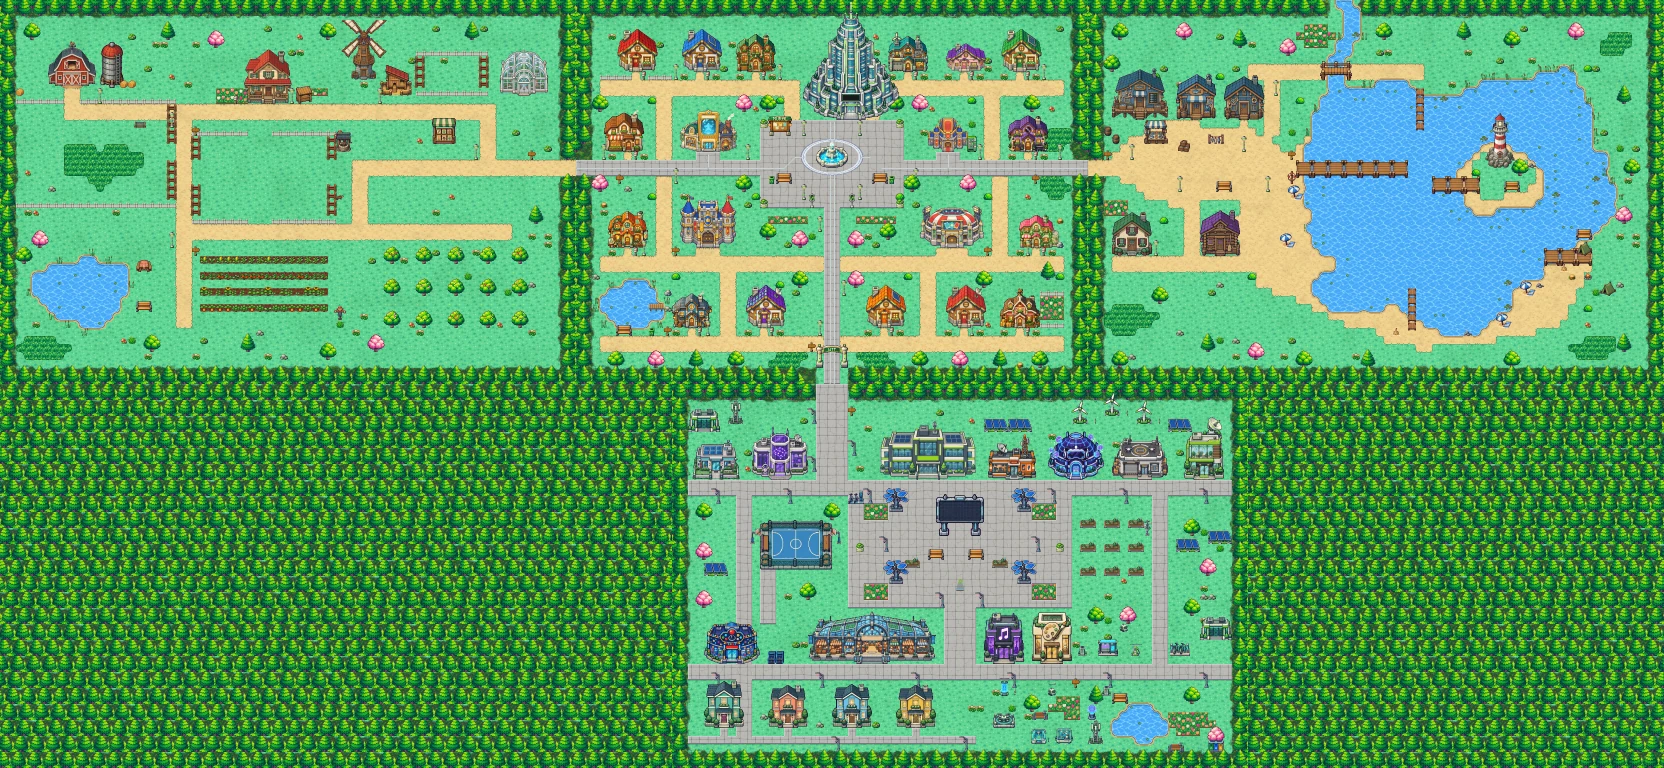
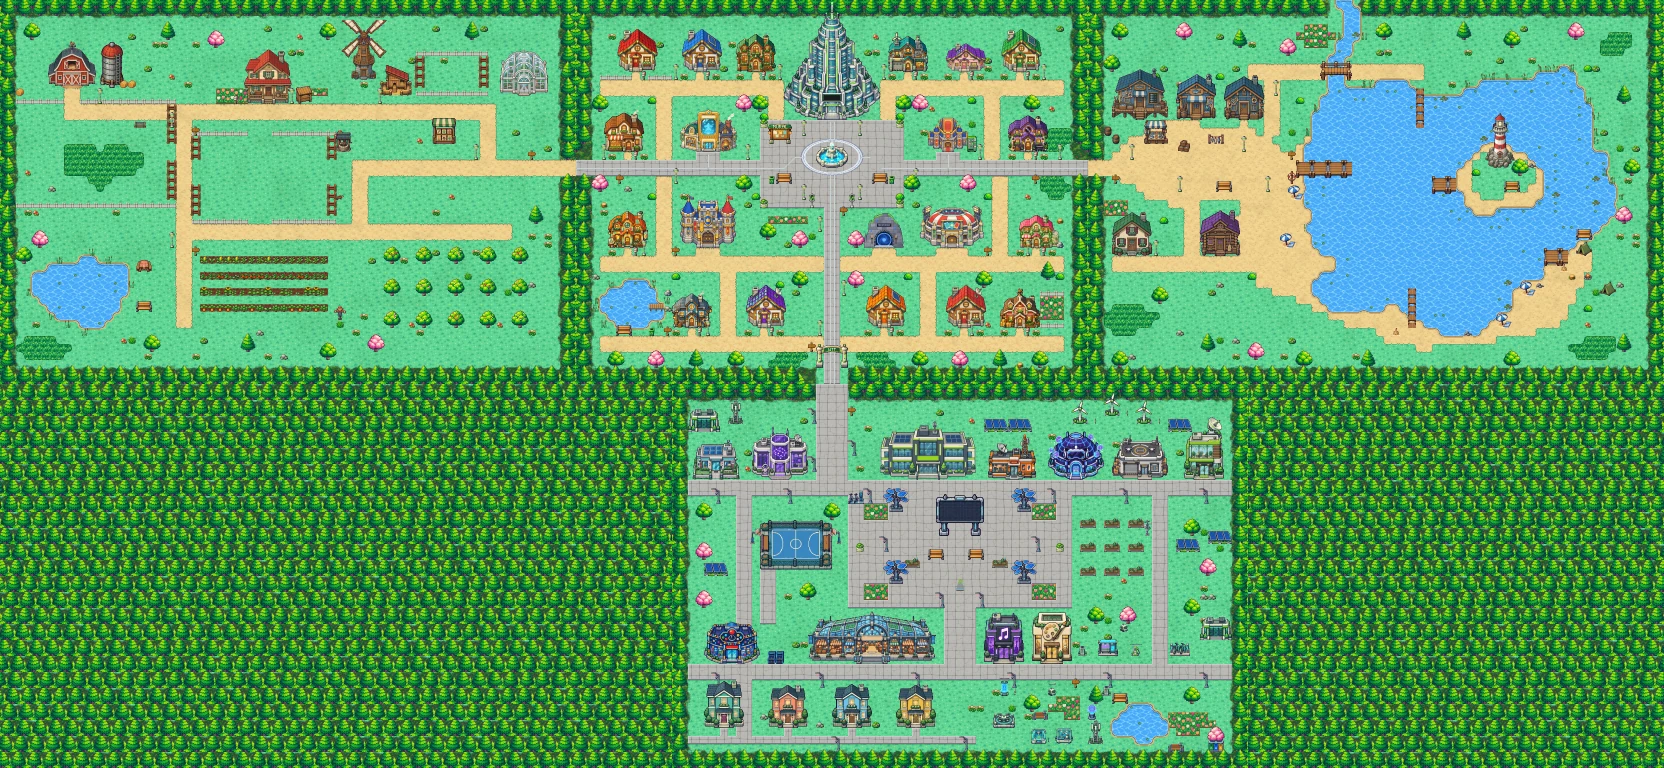
Cidade: Torre dos 100 Andares centrada na praça
A arte do GPT da Torre tem 192 px e a porta no meio, mas o DOOR_X ainda era o
da arte antiga (57,7): a Torre saía 37 px à direita da porta, da fonte e dos
circuitos. Sem o DOOR_X, tudo fica em x = 512. As abas da Torre cobrem os
blocos 26–37: as ruas de cima param do lado delas, as descidas para a praça
vão para 24–25 e 38–39 e as abas viram parede. Teste novo: a escada desenhada
fica em cima dos blocos da porta.

Claude-Session: https://claude.ai/code/session_01LZMKHmQCZ8JMkWs3aTG8Vs

diff --git a/src/game/world/town.ts b/src/game/world/town.ts
@@ -14,6 +14,7 @@ import { HOUSE_MODELS, NPC_HOUSES } from './content';
 import { houseHG } from './house-hg';
 import { arenaHG, towerHG } from './buildings-hg';
 import { cardWorkshop, guildCastle, packShop } from './landmarks';
+import { dungeonGate } from './dungeon-gate';
 import { labeled, lakeFrames, pierArt, reedArt, ZoneBuilder, type GlowSpot, type Lamp, type Placed, type Town, type ZoneOptions } from './zone';
 
 export type { Ambient, Door, GlowSpot, Lamp, Placed, Town } from './zone';
@@ -60,10 +61,12 @@ export function buildTown(assets?: WorldAssets, opts: BuildOptions = {}): Town {
   const fillT = fill;
 
   // ── ruas ──
-  fillT('trilha', 3, 10, 25, 2);            // rua de cima (oeste)
-  fillT('trilha', 36, 10, 25, 2);           // rua de cima (leste)
-  fillT('trilha', 26, 12, 2, 3);            // descidas para a praça
-  fillT('trilha', 36, 12, 2, 3);
+  // a Torre (arte de 12 blocos, centrada na porta em x 32) cobre os blocos 26–37:
+  // a rua de cima para nas abas e as descidas para a praça passam do lado dela
+  fillT('trilha', 3, 10, 23, 2);            // rua de cima (oeste)
+  fillT('trilha', 38, 10, 23, 2);           // rua de cima (leste)
+  fillT('trilha', 24, 12, 2, 3);            // descidas para a praça
+  fillT('trilha', 38, 12, 2, 3);
   fillT('trilha', 10, 12, 2, 8);            // ligações rua de cima → avenidas
   fillT('trilha', 51, 12, 2, 8);
   fillT('trilha', 3, 32, 58, 2);            // rua do meio
@@ -80,13 +83,13 @@ export function buildTown(assets?: WorldAssets, opts: BuildOptions = {}): Town {
   fillT('calcada', 45, 19, 3, 1);           // Loja → avenida
   fillT('trilha', 15, 31, 3, 1);            // Castelo → rua
   fillT('trilha', 45, 31, 4, 1);            // Arena → rua
+  fillT('trilha', 37, 31, 3, 1);            // Masmorra → rua
   shape('agua', 3, 35, ['...###..', '.######.', '#######.', '########', '.#######', '..####..']);   // lago
   shape('mato', 58, 16, ['.###', '####', '###.']);         // mato alto na saída leste
   shape('mato', 58, 22, ['###.', '####', '.##.']);
   shape('mato', 24, 44, ['.####', '####.']);               // e na saída sul
   shape('mato', 35, 44, ['####.', '.####']);
-  fillT('flores', 24, 27, 5, 1);            // canteiros dos parquinhos da praça
-  fillT('flores', 35, 27, 5, 1);
+  fillT('flores', 24, 27, 5, 1);            // canteiro do parquinho da praça (do outro lado fica a Masmorra)
   fillT('flores', 58, 37, 3, 3);            // horta do fazendeiro
   // chão de mata na borda (entre as árvores), com as saídas oeste, sul e leste
   const W_ = CIDADE_EXITS.oeste, E_ = CIDADE_EXITS.leste, S_ = CIDADE_EXITS.sul;
@@ -113,10 +116,13 @@ export function buildTown(assets?: WorldAssets, opts: BuildOptions = {}): Town {
     if (top) fx.beacons.push(top);
   }
   block(28, 2, 8, 6); // a arte da Torre sobe até aqui: ninguém anda por trás dela
+  block(26, 8, 2, 6); block(36, 8, 2, 6); // e as abas dos lados, que descem até a praça
   building(sprB('oficina', 'centro', 'Oficina de Cartas', 7, 5, [3], cardWorkshop), 13, 14);
   building(sprB('palacio-cartas', 'loja', 'Loja de Pacotinhos', 5, 5, [2], packShop), 44, 14);
   building(sprB('castelo', 'guildas', 'Castelo das Guildas', 7, 5, [3], guildCastle), 13, 26);
   building(sprB('arena', 'arena', 'Arena', 8, 5, [3, 4], arenaHG), 43, 26);
+  // a Masmorra tem prédio próprio, ao lado da Arena (a porta leva à Associação dos Caçadores)
+  building(sprB('portao-masmorra', 'masmorra', 'Masmorra', 5, 5, [2], dungeonGate), 36, 26);
 
   // casas: porta no meio, caminho de areia da porta até a rua, correio e canteiro do lado
   const house = (sprite: string, id: string, title: string, tx: number, ty: number, o: Parameters<typeof houseHG>[2], tw = 5) => {
@@ -176,11 +182,11 @@ export function buildTown(assets?: WorldAssets, opts: BuildOptions = {}): Town {
   block(MAP_W - 2, 0, 2, E_.y0); block(MAP_W - 2, E_.y1 + 1, 2, MAP_H - E_.y1 - 1);
   const groves: [P.TreeKind, number, number][] = [
     // faixa verde entre a rua de cima e a das avenidas
-    ['redonda', 2, 12], ['florida', 20, 12], ['redonda', 23, 12], ['redonda', 39, 12], ['florida', 42, 12], ['redonda', 56, 12],
+    ['redonda', 2, 12], ['florida', 20, 12], ['redonda', 22, 12], ['redonda', 40, 12], ['florida', 42, 12], ['redonda', 56, 12],
     // entre as avenidas e a faixa do meio
     ['florida', 2, 22], ['redonda', 20, 22], ['redonda', 41, 22], ['florida', 48, 22],
     // parquinhos dos lados da avenida sul
-    ['redonda', 23, 28], ['florida', 27, 29], ['redonda', 38, 28], ['florida', 34, 29],
+    ['redonda', 23, 28], ['florida', 27, 29], ['florida', 34, 29],
     // entre a rua do meio e a faixa de baixo
     ['redonda', 27, 34], ['florida', 34, 34], ['redonda', 50, 34], ['pinheiro', 58, 33],
     // borda de baixo
@@ -188,7 +194,7 @@ export function buildTown(assets?: WorldAssets, opts: BuildOptions = {}): Town {
     ['redonda', 42, 44], ['florida', 47, 44], ['pinheiro', 52, 44], ['redonda', 57, 44],
   ];
   groves.forEach(([k, tx, ty], i) => treeAt(k, tx, ty, 100 + i));
-  for (const [tx, ty] of [[9, 12], [25, 12], [38, 13], [49, 12], [9, 24], [22, 24], [40, 24], [51, 24], [12, 34], [25, 35], [41, 34], [60, 34]] as [number, number][]) {
+  for (const [tx, ty] of [[9, 12], [23, 14], [40, 14], [49, 12], [9, 24], [22, 24], [40, 24], [51, 24], [12, 34], [25, 35], [41, 34], [60, 34]] as [number, number][]) {
     treeAt('arbusto', tx, ty, tx * 7 + ty);
   }
 
@@ -197,7 +203,7 @@ export function buildTown(assets?: WorldAssets, opts: BuildOptions = {}): Town {
   const fo = putLit('fonte', fountainArt, FOUNTAIN.tx, FOUNTAIN.ty, 4, 2, true, 180);
   const wc = waterCenter(fo.pix);
   const ring = { cx: Math.round(fo.x + wc.x), cy: Math.round(fo.y + wc.y) };
-  putLit('mural', A.mural ? labeled(A.mural, 'MURAL') : T.noticeBoardLit(), 24, 16, 3, 1);
+  putLit('mural', A.mural ? labeled(A.mural, 'MURAL') : T.noticeBoardLit(), 24, 17, 3, 1);
   const bench = sprLit('banco', () => ({ pix: P.bench() }));
   putLit('banco-1', bench, 25, 22, 2, 1);
   putLit('banco-2', bench, 37, 22, 2, 1);
@@ -221,6 +227,7 @@ export function buildTown(assets?: WorldAssets, opts: BuildOptions = {}): Town {
   const sign = sprLit('placa', () => ({ pix: P.signPost() }));
   putLit('placa-guildas', sign, 12, 31, 1, 1);
   putLit('placa-arena', sign, 51, 31, 1, 1);
+  putLit('placa-masmorra', sign, 33, 26, 1, 1);
   putLit('placa-lago', sign, 11, 41, 1, 1);
   // placas das saídas (ler: espaço de frente)
   putLit('placa-fazenda', sign, 5, 22, 1, 1);
@@ -230,7 +237,8 @@ export function buildTown(assets?: WorldAssets, opts: BuildOptions = {}): Town {
   z.spot('placa', 57, 22, { lines: ['LAGO AZUL →', 'Casa de Pesca, píeres para pescar e o barquinho para atravessar o lago.'] });
   z.spot('placa', 29, 43, { lines: ['↓ CIDADE WIT', 'Onde ficam os cursos do Núcleo WIT: IA, IoT, Metaverso, Comunicação Digital e Games.'] });
   z.spot('placa', 12, 31, { lines: ['→ Castelo das Guildas', 'Sua equipe, a meta de presença da semana e o chefe da guilda.'] });
-  z.spot('placa', 51, 31, { lines: ['← Arena', 'Duelos contra os colegas (em breve).'] });
+  z.spot('placa', 51, 31, { lines: ['← Arena', 'Duelos de cartas: contra os desafiantes nas mesas ou contra um colega.'] });
+  z.spot('placa', 33, 26, { lines: ['MASMORRA →', 'O portão de pedra aqui do lado leva à Associação dos Caçadores: escolha um portal (comece pelo E), lute sala por sala e vença o chefe.'] });
   z.spot('placa', 11, 41, { lines: ['Laguinho do Centro', 'Para pescar de verdade, vá ao Lago Azul, a leste.'] });
 
   // ── casas: correio do lado do caminho, canteiros, a cerca da Sua Casa ──
@@ -278,12 +286,12 @@ export function buildTown(assets?: WorldAssets, opts: BuildOptions = {}): Town {
   putLit('pedra-2', rock, 60, 30, 1, 1);
   // a fonte da praça: jogar uma moeda e fazer um pedido
   for (let k = 0; k < 4; k++) z.spot('fonte', FOUNTAIN.tx + k, FOUNTAIN.ty + 1);
-  for (let k = 0; k < 3; k++) z.spot('mural', 24 + k, 16);
+  for (let k = 0; k < 3; k++) z.spot('mural', 24 + k, 17);
   z.spot('maquina', 49, 18);
   // enfeites da natureza (só com os sprites novos; dá para pisar)
   const deco: [string, number, number][] = [
     ['toco', 3, 25], ['cogumelos', 22, 13], ['pedrinhas', 2, 34], ['arbusto-florido', 26, 30], ['cogumelos', 44, 13],
-    ['toco', 60, 27], ['arbusto-florido', 37, 30], ['pedrinhas', 11, 38], ['cogumelos', 5, 45], ['toco', 55, 45],
+    ['toco', 60, 27], ['pedrinhas', 11, 38], ['cogumelos', 5, 45], ['toco', 55, 45],
     ['arbusto-florido', 21, 25], ['arbusto-florido', 42, 25], ['pedrinhas', 40, 43], ['cogumelos', 59, 13],
   ];
   for (const [name, tx, ty] of deco) {

diff --git a/src/game/world/__tests__/town.test.ts b/src/game/world/__tests__/town.test.ts
@@ -35,7 +35,7 @@ describe('cidade inicial', () => {
 
   it('tem todos os prédios do plano, cada um com porta', () => {
     const ids = new Set(town.doors.map(d => d.building));
-    for (const id of ['torre', 'centro', 'loja', 'arena', 'guildas', 'sua-casa']) expect(ids.has(id)).toBe(true);
+    for (const id of ['torre', 'centro', 'loja', 'arena', 'guildas', 'masmorra', 'sua-casa']) expect(ids.has(id)).toBe(true);
   });
 
   it('o início é livre e toda porta dá para entrar vindo de baixo', () => {
@@ -168,5 +168,17 @@ describe('cidade com os sprites convertidos do GPT', () => {
     expect(t.doors.length).toBe(town.doors.length);
     expect(t.solid).toEqual(town.solid);
     for (const o of t.objects) expect(o.x + o.pix.w, `${o.id} passa da borda`).toBeLessThanOrEqual(t.ground.w + 32);
+    // a escada desenhada da Torre fica em cima dos blocos da porta (a arte não pode sair torta da praça)
+    const tw = t.objects.find(o => o.id === 'torre')!, pm = tw.pix;
+    const doorTx = t.doors.filter(d => d.building === 'torre').map(d => d.tx);
+    const want = ((Math.min(...doorTx) + Math.max(...doorTx) + 1) / 2) * 16;
+    let sum = 0, n = 0;
+    for (let y = pm.h - 4; y < pm.h; y++) {
+      let a = -1, b = -1;
+      for (let x = 0; x < pm.w; x++) if (pm.data[(y * pm.w + x) * 4 + 3] > 200) { if (a < 0) a = x; b = x; }
+      if (a >= 0) { sum += (a + b + 1) / 2; n++; }
+    }
+    expect(n).toBeGreaterThan(0);
+    expect(Math.abs(tw.x + sum / n - want), 'escada da Torre fora da porta').toBeLessThanOrEqual(2);
   }, 20000);
 });

diff --git a/src/game/world/zone.ts b/src/game/world/zone.ts
@@ -152,7 +152,7 @@ export interface ZoneOptions {
 export const DOOR_X: Record<string, number> = {
   'casa-azul': 36, 'casa-chale': 37, 'casa-laranja': 36.5, 'casa-roxa': 36.5, 'casa-verde': 37,
   'casa-vermelha-antena': 36.5, 'casa-padaria': 48, 'casa-moderna': 47, 'casa-floricultura': 34.5,
-  'casa-rosa': 36, torre: 57.7, oficina: 55.5,
+  'casa-rosa': 36, oficina: 55.5,
 };
 
 /** Sprites que têm chaminé (os outros têm antena, bandeira ou nada no telhado). */
